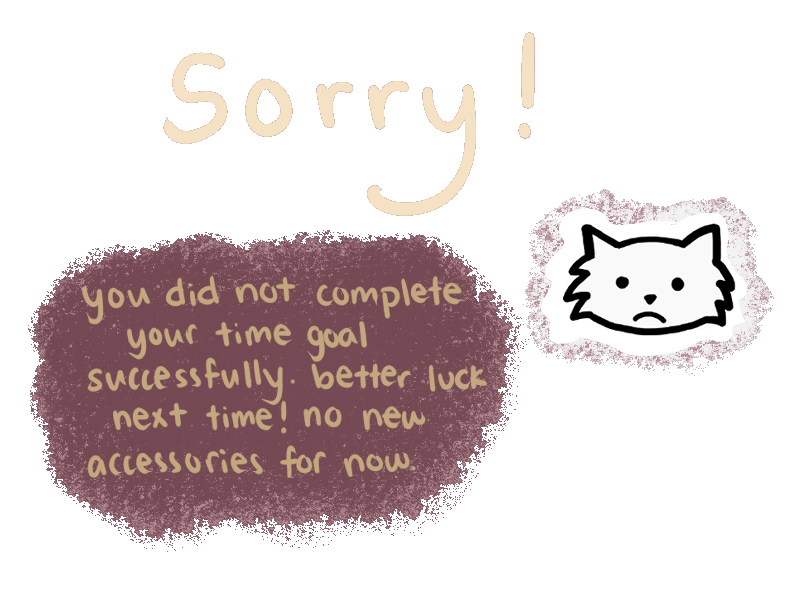
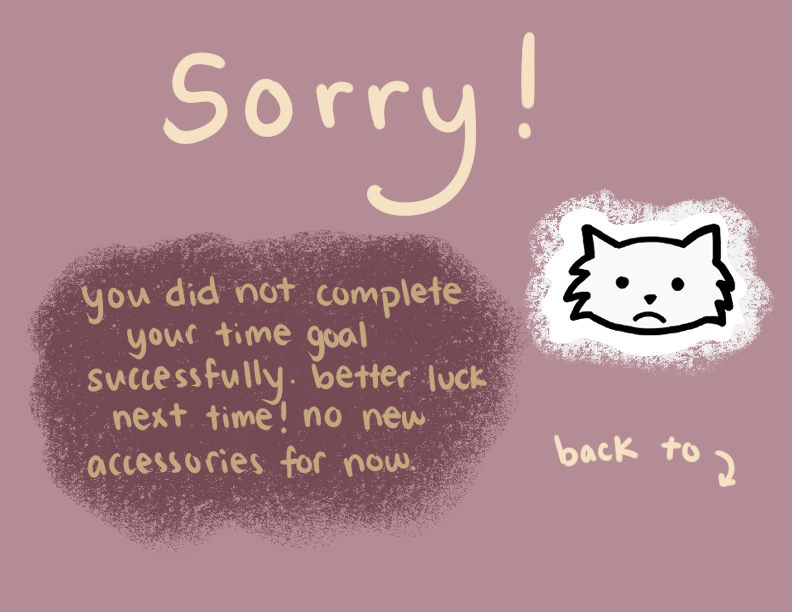
fail

diff --git a/failstyle.css b/failstyle.css
@@ -1,15 +1,9 @@
 html {
+	background-image: url("Fail.png");
     background-repeat: no-repeat;
     background-attachment: fixed;
     background-position: center;
     background-color: #B48C95;
-}
-
-#image {
-	position: relative;
-	width: 75%;
-	padding-left: 12.5%;
-	z-index: -1;
 }
 
 .btn {

diff --git a/fail.html b/fail.html
@@ -8,6 +8,5 @@
 <body>
     <a href="index.html"><button id="logo" class="btn"></button></a>
     <a href="timer.html"><button id="fail" class="btn"></button></a>
-    <img src="pictures/fail.png" id = "image" alt="timer">
 </body>
 </html>
